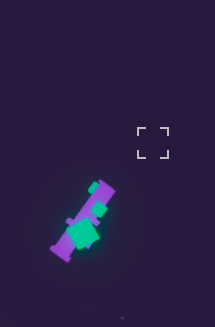
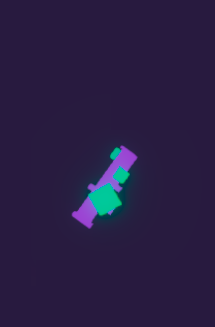
Refactor demo cards for improved layout and animation handling

diff --git a/style.css b/style.css
@@ -8,6 +8,7 @@
   --hot: #2bffa3;
   --cool: #4FD1E8;
   --stagger: 0.2s;
+  --time: 0.2s;
 }
 
 * {
@@ -558,7 +559,7 @@ footer .meta {
 
 .demo-grid {
   display: grid;
-  grid-template-columns: repeat(3, 1fr);
+  grid-template-columns: repeat(4, 1fr);
   gap: 25px;
   padding: 0 28px;
 }
@@ -569,17 +570,20 @@ footer .meta {
   }
 }
 
-@media(max-width: 600px) {
+@media(max-width: 700px) {
   .demo-grid {
     grid-template-columns: repeat(2, 1fr);
+    gap: 10px;
   }
 }
 
-@media(max-width: 400px) {
+@media(max-width: 500px) {
   .demo-grid {
     grid-template-columns: 1fr;
+    gap: 25px;
   }
 }
+
 
 .demo-card {
   position: relative;
@@ -589,26 +593,36 @@ footer .meta {
   border: 1px solid var(--line);
   border-radius: 3px;
   padding: 0;
-  opacity: 0;
-  transform: scale(0.5);
+  transform: scale(.75);
   aspect-ratio: 3 / 4;
   width: 100%;
   box-sizing: border-box;
   transition: border-color .2s ease, transform .2s ease;
-  animation: cardIn .4s ease-out forwards;
+  animation: cardIn var(--time) ease-out forwards;
   animation-delay: calc(var(--order, 0) * var(--stagger));
 }
 
 @keyframes cardIn {
   from {
-    opacity: 0;
-    transform: scale(0.5);
+    transform: scale(0.75);
   }
 
   to {
-    opacity: 1;
     transform: scale(1);
   }
+}
+
+.demo-card.ignore-animation {
+  animation: none;
+  transform: scale(1);
+  border: none;
+}
+
+.demo-card.ignore-animation .demo-card__inner {
+  justify-content: center;
+  align-items: center;
+  background: rgba(0, 0, 0, 0.3);
+  pointer-events: none;
 }
 
 .demo-card::before {
@@ -642,7 +656,6 @@ footer .meta {
   content: "";
   position: absolute;
   inset: 0;
-  background: #1ba66a34;
   pointer-events: none;
   z-index: 0;
 }
@@ -657,7 +670,6 @@ footer .meta {
   font-family: 'Archivo Black';
   font-size: 100%;
   text-transform: uppercase;
-  /* margin: 14px 0 8px; */
 }
 
 .demo-card p {

diff --git a/Pages/demos-page.html b/Pages/demos-page.html
@@ -41,16 +41,19 @@
           <!-- <p>Example project card with its own background image and text overlay.</p> -->
         </div>
       </a>
-      <!-- <a class="demo-card" href="Demos/voxels_demo.html"> -->
-        <div class="demo-card__inner" style="justify-content: center; align-items: center; background: var(--bg);">
-          <!-- <h3>COMING SOON...</h3> -->
-        </div>
-      <!-- </a> -->
-      <!-- <a class="demo-card" href="Demos/voxels_demo.html"> -->
-        <div class="demo-card__inner" style="justify-content: center; align-items: center; background: var(--bg);">
-          <!-- <h3>COMING SOON...</h3> -->
-        </div>
-      <!-- </a> -->
+      <a class="demo-card ignore-animation">
+        <div class="demo-card__inner"></div>
+      </a>
+      <a class="demo-card ignore-animation">
+        <div class="demo-card__inner"></div>
+      </a>
+      <a class="demo-card ignore-animation">
+        <div class="demo-card__inner"></div>
+      </a>
+      <a class="demo-card ignore-animation">
+        <div class="demo-card__inner"></div>
+      </a>
+
     </div>
   </div>
   <script>
